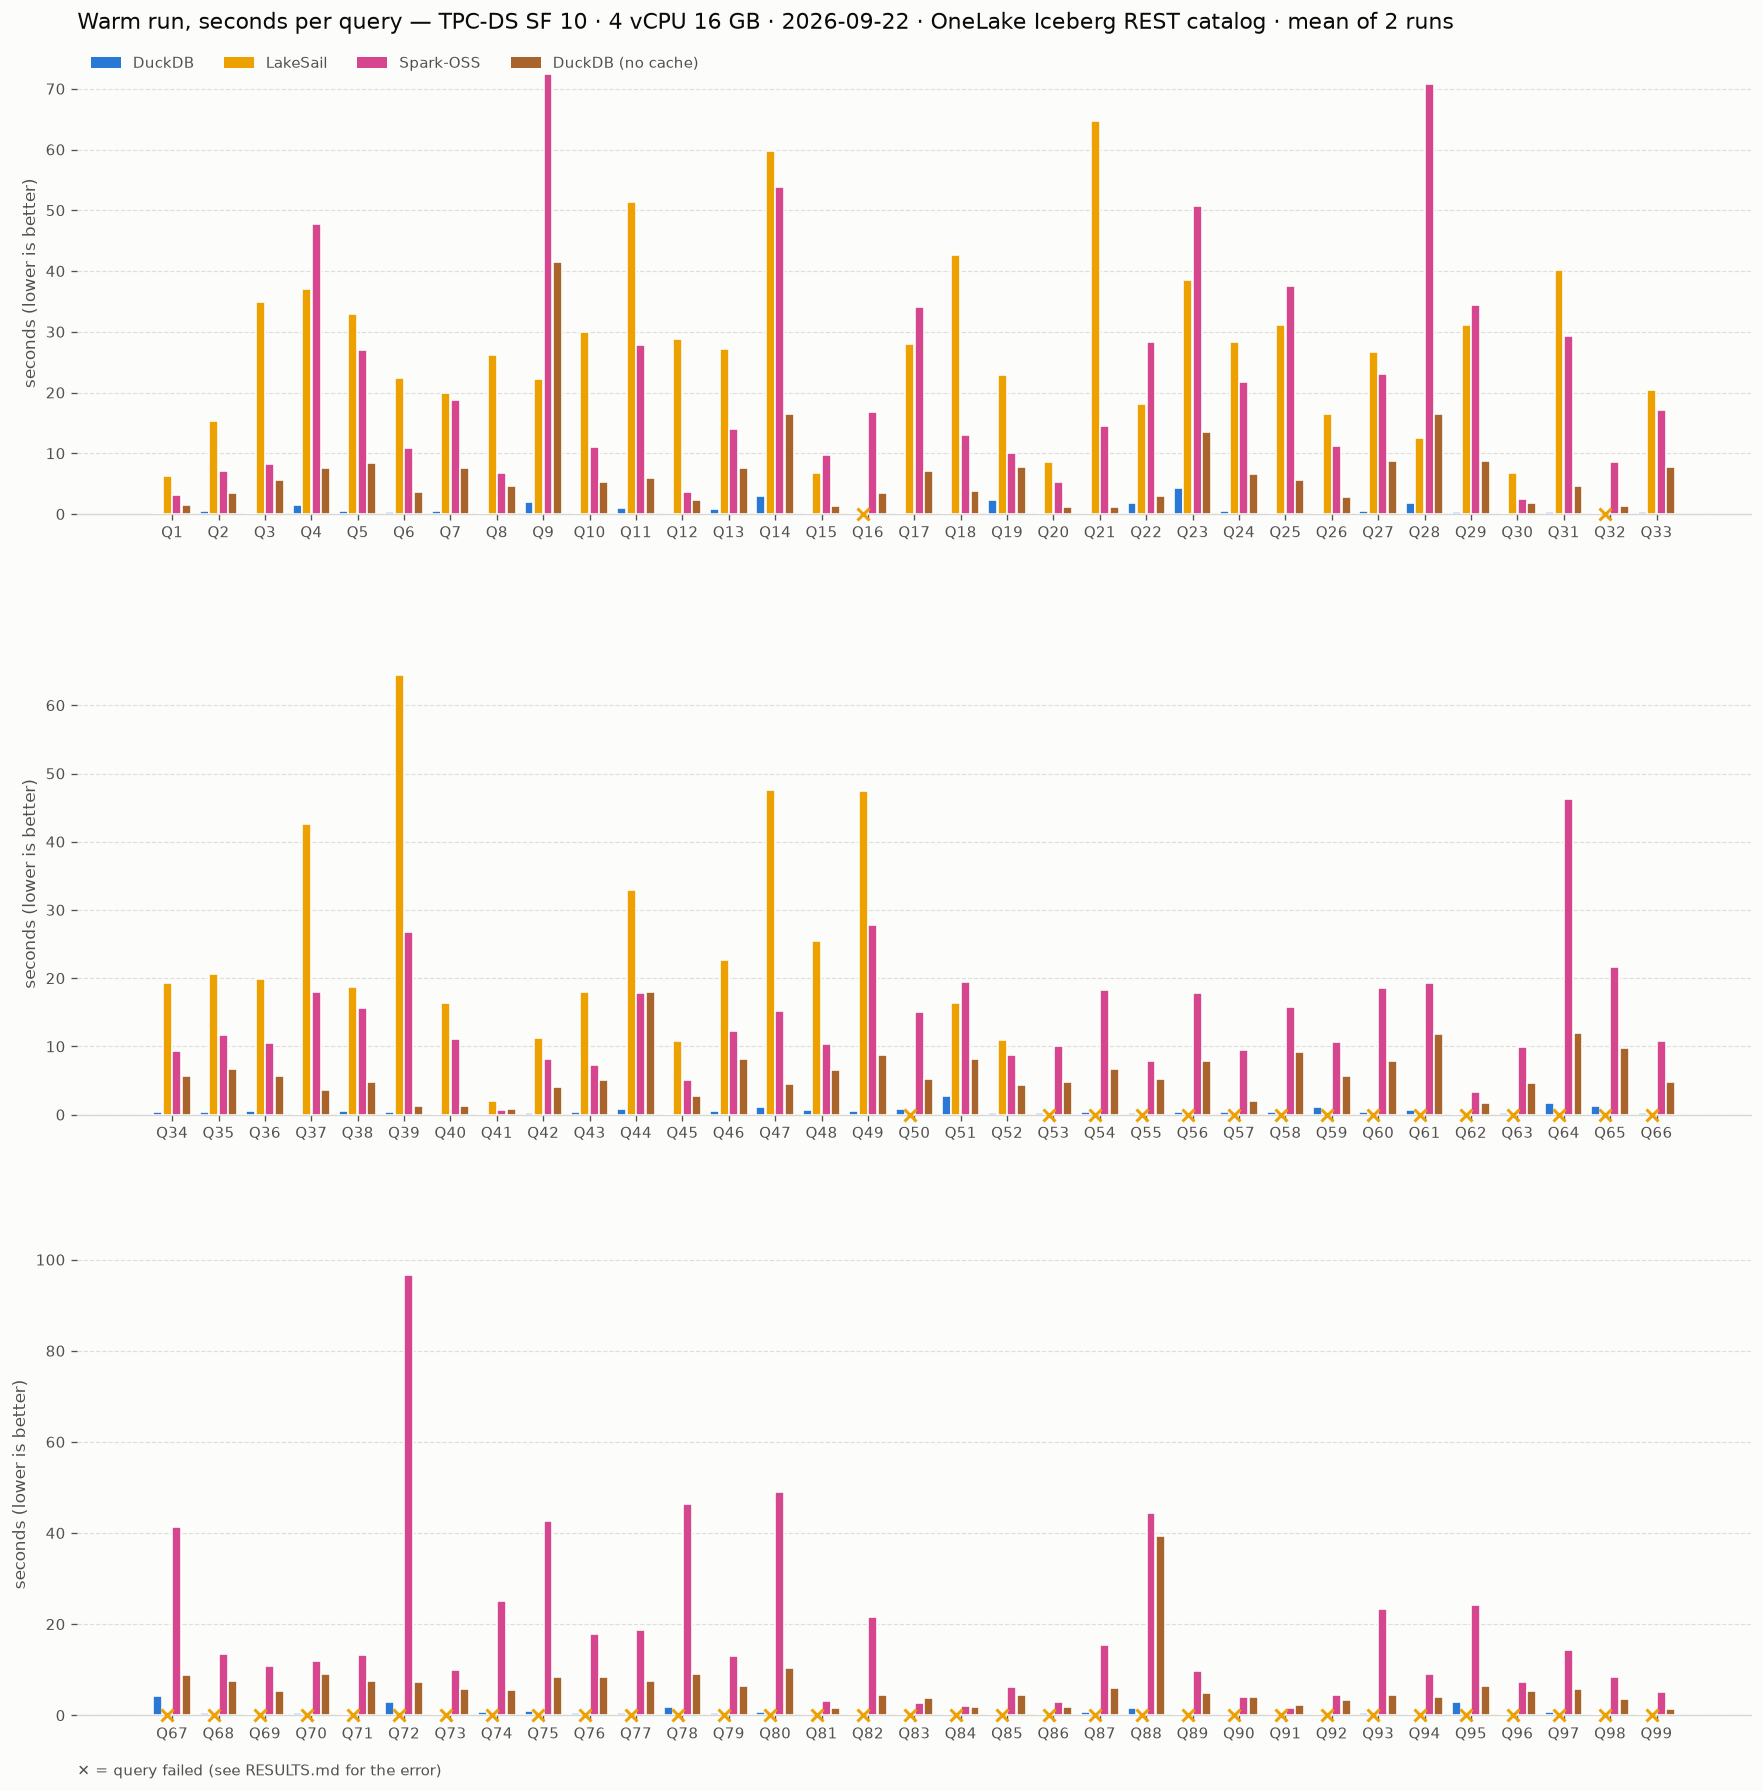
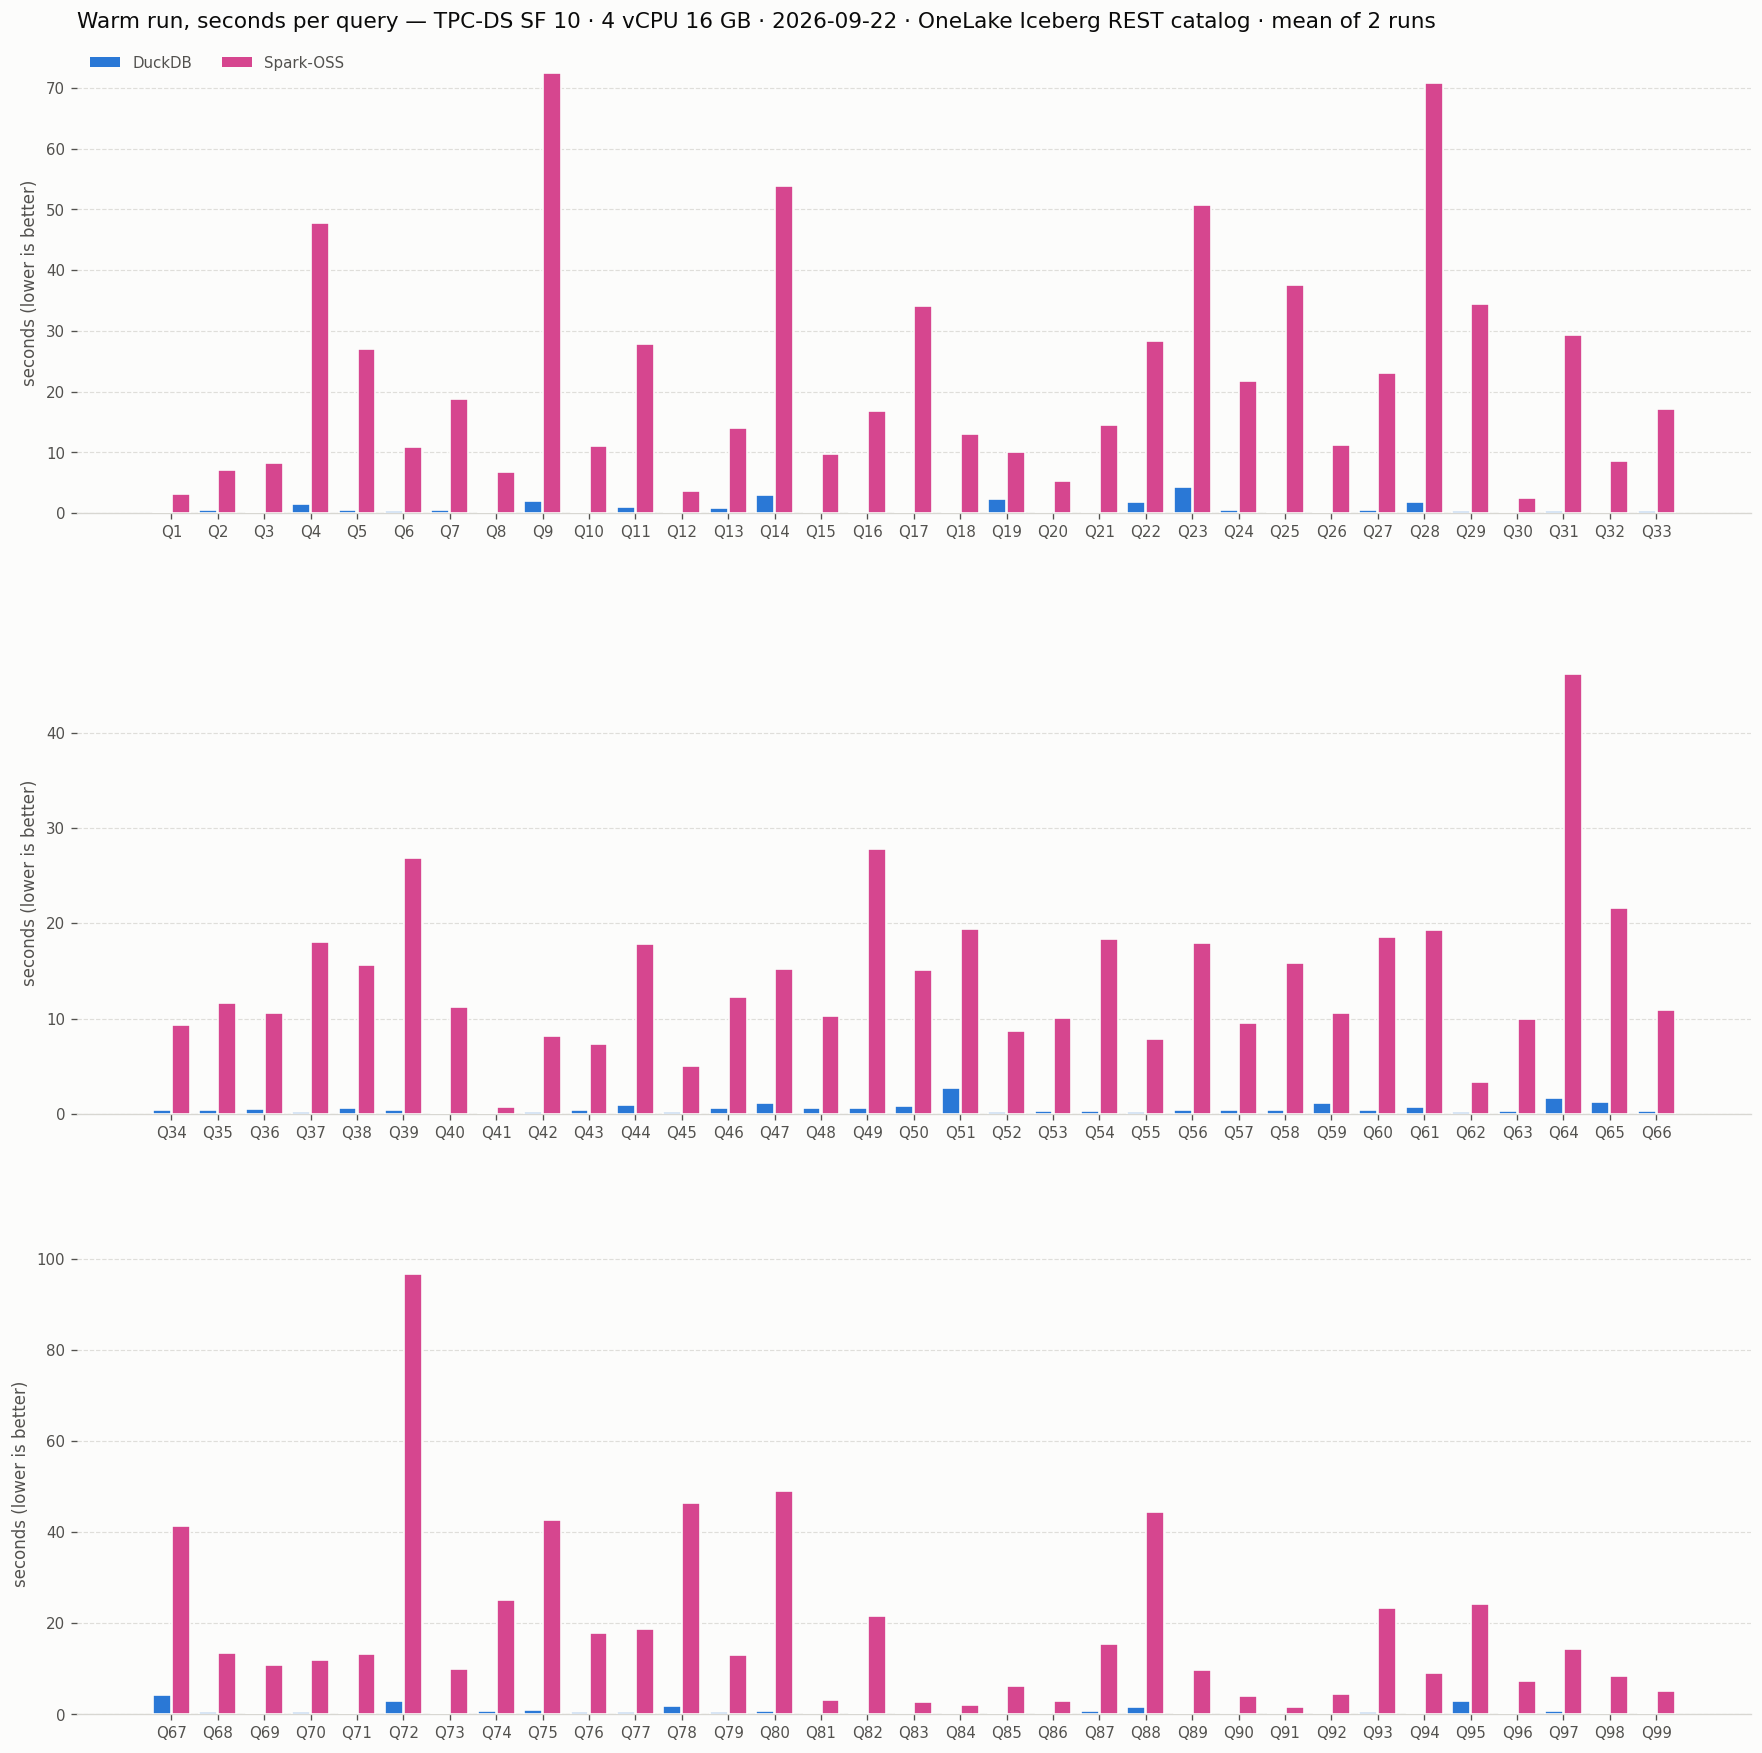
tpcds: drop the DuckDB no-cache control
It answered a TPC-H question -- is Polars slower only because it has no file
cache? -- and TPC-H keeps it. TPC-DS never needed it.

publish.py now draws the headline charts and RESULTS.md from the suite's current
ENGINES only (write_headline_docs), so a dropped engine leaves the headline at
once instead of lingering until it ages out of the recent-runs window. The
history JSON and CSV keep everything. docs/tpcds re-rendered from the stored
run 35789548458 through that same function; no run file was written.

diff --git a/.github/scripts/publish.py b/.github/scripts/publish.py
@@ -126,6 +126,7 @@ def write_results_md(run: Run, rows: list[dict], table, path: Path, suite) -> No
     failures = [
         (engine, row)
         for engine, result in run.engines.items()
+        if engine in suite.ENGINES
         for row in result.rows
         if row.status == "error"
     ]
@@ -177,6 +178,36 @@ def write_results_md(run: Run, rows: list[dict], table, path: Path, suite) -> No
     path.write_text("\n".join(lines) + "\n", encoding="utf-8")
 
 
+def write_headline_docs(run: Run, rows: list[dict], table, suite) -> None:
+    """Charts and RESULTS.md, drawn from the suite's CURRENT engine roll only.
+
+    The history keeps every engine that ever ran; the headline does not. An engine dropped from
+    a suite (TPC-DS's DuckDB no-cache control, 2026-09-23) would otherwise stay on the charts
+    until it aged out of the recent-runs window.
+    """
+    import pyarrow as pa
+    import pyarrow.compute as pc
+
+    docs = Path(suite.DOCS_DIR)
+    shown = table.filter(pc.is_in(table["engine"], value_set=pa.array(list(suite.ENGINES))))
+    subtitle = (
+        f"{suite.TITLE} SF {run.sf} · {run.cpu} vCPU {run.mem_gb:.0f} GB · "
+        f"{run.run_started_at[:10]} · OneLake Iceberg REST catalog"
+    )
+    per_row = math.ceil(suite.N_QUERIES / math.ceil(suite.N_QUERIES / PER_ROW_MAX))
+    for path in charts.render_all(
+        shown,
+        run.sf,
+        docs / "charts",
+        subtitle,
+        test=suite.TEST,
+        n_queries=suite.N_QUERIES,
+        per_row=per_row,
+    ):
+        print(f"wrote {path}")
+    write_results_md(run, rows, shown, docs / "RESULTS.md", suite)
+
+
 def write_step_summary(run: Run, rows: list[dict], suite) -> None:
     target = os.environ.get("GITHUB_STEP_SUMMARY")
     if not target:
@@ -222,22 +253,7 @@ def main() -> int:
     # The charts and RESULTS.md are the HEADLINE_SF view; a run at another scale is recorded
     # (the JSON above, the CSV, the step summary) and rewrites neither. etl_publish.py says why.
     if sf == suite.HEADLINE_SF:
-        subtitle = (
-            f"{suite.TITLE} SF {run.sf} · {run.cpu} vCPU {run.mem_gb:.0f} GB · "
-            f"{run.run_started_at[:10]} · OneLake Iceberg REST catalog"
-        )
-        per_row = math.ceil(suite.N_QUERIES / math.ceil(suite.N_QUERIES / PER_ROW_MAX))
-        for path in charts.render_all(
-            table,
-            sf,
-            docs / "charts",
-            subtitle,
-            test=suite.TEST,
-            n_queries=suite.N_QUERIES,
-            per_row=per_row,
-        ):
-            print(f"wrote {path}")
-        write_results_md(run, rows, table, docs / "RESULTS.md", suite)
+        write_headline_docs(run, rows, table, suite)
     else:
         print(
             f"::notice::SF={sf} is not the headline scale ({suite.HEADLINE_SF}): the run and the "

diff --git a/bench/tpcds/config.py b/bench/tpcds/config.py
@@ -18,7 +18,7 @@ from dataclasses import dataclass
 
 from bench.config import SQL_DIR, Config
 
-# THE ENGINES THAT FINISH. TPC-H runs all seven; TPC-DS runs these three, and the other four were
+# THE ENGINES THAT FINISH. TPC-H runs all seven; TPC-DS runs these two. Four of the rest were
 # dropped on measurement, not taste -- run 35732997698 (SF=10) and 35732283791 (SF=1) are the
 # evidence, and every number below is from the SF=10 run over identical OneLake tables.
 #
@@ -36,15 +36,16 @@ from bench.config import SQL_DIR, Config
 #   daft_iceberg      never ran here: TPC-H already excludes it from the query benchmark
 #                     (Eventual-Inc/Daft#7532).
 #
-# What is left is DuckDB, the same DuckDB with its file cache off, and Spark. Spark is slow --
+# DuckDB WITH ITS FILE CACHE OFF is not here either. It was a TPC-H question -- is Polars slower
+# only because it has no cache? -- and TPC-H still runs it; TPC-DS never needed the control.
+#
+# What is left is DuckDB and Spark. Spark is slow --
 # ~42 min cold, and bench/tpch/engines/pyspark_iceberg.py's `refresh` exists because of it -- but
 # it is the only non-DuckDB engine that answers all 99, so dropping it would leave one engine
 # measured against itself.
 ENGINES = (
     "duckdb_iceberg",
     "pyspark_iceberg",
-    # LAST for the reason bench/tpch/config.py gives at the same line: position is legend order.
-    "duckdb_nocache_iceberg",
 )
 
 # The 24 tables of the spec (dsdgen also emits `dbgen_version`, which is not one), LARGEST FIRST

diff --git a/tests/test_config.py b/tests/test_config.py
@@ -112,7 +112,6 @@ def test_tpcds_runs_a_subset_of_the_tpch_engines():
     and no colour.
     """
     assert set(TpcdsConfig.ENGINES) < set(TpchConfig.ENGINES)
-    assert TpcdsConfig.ENGINES[-1] == "duckdb_nocache_iceberg"  # legend order, as in TPC-H
 
 
 def test_workflow_defaults_dispatch_only_engines_their_suite_lists():

diff --git a/docs/tpcds/RESULTS.md b/docs/tpcds/RESULTS.md
@@ -9,7 +9,6 @@ Last run: `2026-09-22T21:57:16Z` · commit `0b65692` · [Actions run](https://gi
 | Engine | Version | Cold total | Warm total | Attach | Failed queries |
 |---|---|---:|---:|---:|---|
 | DuckDB | `2.0.0.dev2609221243` | 105.3s | 67.7s | 2.6s | — |
-| DuckDB (no cache) | `2.0.0.dev2609221243` | 969.5s | 958.7s | 28.2s | — |
 | Spark-OSS | `4.1.3 + iceberg Apache Iceberg 1.11.0 (commit 6976e020b894f6a6777704df2b8c4458cb291ae9)` | 2,170.3s | 1,843.0s | 20.3s | — |
 
 Cold = first pass after attaching the catalog. Warm = the identical 99 statements run again immediately. Attach is timed separately and excluded from both totals.
@@ -18,110 +17,110 @@ Cold = first pass after attaching the catalog. Warm = the identical 99 statement
 
 Seconds, cold pass. `—` means the query failed; see Failures above.
 
-| Query | DuckDB | DuckDB (no cache) | Spark-OSS |
-|---|---|---|---|
-| Q1 | 2.11 | 8.92 | 14.16 |
-| Q2 | 3.04 | 5.28 | 11.88 |
-| Q3 | 4.31 | 6.87 | 9.50 |
-| Q4 | 2.39 | 11.36 | 51.84 |
-| Q5 | 1.23 | 12.52 | 50.93 |
-| Q6 | 0.48 | 5.98 | 12.05 |
-| Q7 | 0.94 | 10.96 | 20.25 |
-| Q8 | 0.25 | 5.42 | 7.76 |
-| Q9 | 2.01 | 75.15 | 77.21 |
-| Q10 | 0.29 | 11.44 | 11.84 |
-| Q11 | 0.97 | 8.40 | 29.76 |
-| Q12 | 0.14 | 2.58 | 4.18 |
-| Q13 | 0.84 | 13.06 | 16.32 |
-| Q14 | 3.23 | 26.19 | 57.86 |
-| Q15 | 0.10 | 1.83 | 9.49 |
-| Q16 | 0.80 | 7.30 | 18.41 |
-| Q17 | 1.05 | 11.79 | 34.40 |
-| Q18 | 0.53 | 5.62 | 14.41 |
-| Q19 | 2.02 | 10.74 | 10.87 |
-| Q20 | 0.07 | 1.50 | 5.61 |
-| Q21 | 0.47 | 2.20 | 15.18 |
-| Q22 | 2.32 | 3.19 | 28.07 |
-| Q23 | 4.41 | 18.44 | 53.52 |
-| Q24 | 0.59 | 8.28 | 22.65 |
-| Q25 | 0.24 | 9.38 | 36.05 |
-| Q26 | 0.24 | 3.69 | 11.15 |
-| Q27 | 0.46 | 12.28 | 22.45 |
-| Q28 | 1.88 | 22.56 | 68.93 |
-| Q29 | 0.36 | 12.37 | 33.68 |
-| Q30 | 0.24 | 2.43 | 2.68 |
-| Q31 | 0.41 | 6.43 | 31.13 |
-| Q32 | 0.05 | 2.38 | 9.52 |
-| Q33 | 0.41 | 10.95 | 18.82 |
-| Q34 | 0.33 | 8.83 | 9.58 |
-| Q35 | 0.50 | 7.65 | 12.18 |
-| Q36 | 0.46 | 8.48 | 11.67 |
-| Q37 | 0.22 | 5.19 | 18.42 |
-| Q38 | 0.61 | 6.24 | 15.73 |
-| Q39 | 0.61 | 1.90 | 26.53 |
-| Q40 | 0.46 | 2.03 | 10.62 |
-| Q41 | 0.04 | 1.18 | 0.90 |
-| Q42 | 0.22 | 5.67 | 7.77 |
-| Q43 | 0.36 | 6.66 | 7.36 |
-| Q44 | 0.85 | 25.68 | 17.77 |
-| Q45 | 0.15 | 3.88 | 4.95 |
-| Q46 | 0.53 | 11.47 | 11.89 |
-| Q47 | 1.10 | 8.39 | 14.37 |
-| Q48 | 0.63 | 9.79 | 10.91 |
-| Q49 | 0.96 | 11.22 | 27.89 |
-| Q50 | 0.85 | 9.37 | 15.80 |
-| Q51 | 2.74 | 8.99 | 19.32 |
-| Q52 | 0.24 | 5.29 | 8.96 |
-| Q53 | 0.32 | 6.21 | 9.73 |
-| Q54 | 0.32 | 10.29 | 17.45 |
-| Q55 | 0.23 | 4.90 | 7.57 |
-| Q56 | 0.38 | 10.99 | 17.74 |
-| Q57 | 0.39 | 2.28 | 9.33 |
-| Q58 | 0.36 | 11.97 | 15.79 |
-| Q59 | 1.15 | 5.06 | 10.72 |
-| Q60 | 0.42 | 11.06 | 18.21 |
-| Q61 | 0.72 | 16.09 | 18.82 |
-| Q62 | 21.57 | 5.21 | 3.36 |
-| Q63 | 0.31 | 7.67 | 9.88 |
-| Q64 | 1.83 | 17.94 | 45.25 |
-| Q65 | 1.25 | 15.17 | 22.52 |
-| Q66 | 0.63 | 7.60 | 11.95 |
-| Q67 | 4.30 | 13.05 | 42.52 |
-| Q68 | 0.57 | 12.12 | 14.22 |
-| Q69 | 0.29 | 8.35 | 11.36 |
-| Q70 | 0.57 | 12.24 | 13.15 |
-| Q71 | 0.38 | 7.85 | 14.31 |
-| Q72 | 3.38 | 10.21 | 341.47 |
-| Q73 | 0.28 | 8.70 | 9.66 |
-| Q74 | 0.73 | 9.19 | 24.08 |
-| Q75 | 0.96 | 12.93 | 42.76 |
-| Q76 | 0.56 | 14.45 | 18.29 |
-| Q77 | 0.54 | 14.78 | 20.64 |
-| Q78 | 1.83 | 13.58 | 45.41 |
-| Q79 | 0.56 | 10.13 | 12.99 |
-| Q80 | 0.66 | 15.19 | 49.20 |
-| Q81 | 0.17 | 2.12 | 3.33 |
-| Q82 | 0.19 | 7.98 | 22.39 |
-| Q83 | 0.10 | 6.00 | 2.63 |
-| Q84 | 0.10 | 2.83 | 1.70 |
-| Q85 | 0.32 | 7.71 | 6.80 |
-| Q86 | 0.12 | 2.07 | 3.04 |
-| Q87 | 0.68 | 10.55 | 14.89 |
-| Q88 | 1.67 | 58.58 | 44.97 |
-| Q89 | 0.34 | 10.93 | 9.55 |
-| Q90 | 0.12 | 6.43 | 3.74 |
-| Q91 | 0.14 | 3.55 | 1.81 |
-| Q92 | 0.11 | 5.06 | 5.05 |
-| Q93 | 0.44 | 7.42 | 23.54 |
-| Q94 | 0.11 | 6.15 | 9.12 |
-| Q95 | 2.99 | 8.13 | 26.03 |
-| Q96 | 0.22 | 7.00 | 6.94 |
-| Q97 | 0.71 | 8.49 | 16.01 |
-| Q98 | 0.35 | 5.17 | 10.09 |
-| Q99 | 0.18 | 2.69 | 5.11 |
+| Query | DuckDB | Spark-OSS |
+|---|---|---|
+| Q1 | 2.11 | 14.16 |
+| Q2 | 3.04 | 11.88 |
+| Q3 | 4.31 | 9.50 |
+| Q4 | 2.39 | 51.84 |
+| Q5 | 1.23 | 50.93 |
+| Q6 | 0.48 | 12.05 |
+| Q7 | 0.94 | 20.25 |
+| Q8 | 0.25 | 7.76 |
+| Q9 | 2.01 | 77.21 |
+| Q10 | 0.29 | 11.84 |
+| Q11 | 0.97 | 29.76 |
+| Q12 | 0.14 | 4.18 |
+| Q13 | 0.84 | 16.32 |
+| Q14 | 3.23 | 57.86 |
+| Q15 | 0.10 | 9.49 |
+| Q16 | 0.80 | 18.41 |
+| Q17 | 1.05 | 34.40 |
+| Q18 | 0.53 | 14.41 |
+| Q19 | 2.02 | 10.87 |
+| Q20 | 0.07 | 5.61 |
+| Q21 | 0.47 | 15.18 |
+| Q22 | 2.32 | 28.07 |
+| Q23 | 4.41 | 53.52 |
+| Q24 | 0.59 | 22.65 |
+| Q25 | 0.24 | 36.05 |
+| Q26 | 0.24 | 11.15 |
+| Q27 | 0.46 | 22.45 |
+| Q28 | 1.88 | 68.93 |
+| Q29 | 0.36 | 33.68 |
+| Q30 | 0.24 | 2.68 |
+| Q31 | 0.41 | 31.13 |
+| Q32 | 0.05 | 9.52 |
+| Q33 | 0.41 | 18.82 |
+| Q34 | 0.33 | 9.58 |
+| Q35 | 0.50 | 12.18 |
+| Q36 | 0.46 | 11.67 |
+| Q37 | 0.22 | 18.42 |
+| Q38 | 0.61 | 15.73 |
+| Q39 | 0.61 | 26.53 |
+| Q40 | 0.46 | 10.62 |
+| Q41 | 0.04 | 0.90 |
+| Q42 | 0.22 | 7.77 |
+| Q43 | 0.36 | 7.36 |
+| Q44 | 0.85 | 17.77 |
+| Q45 | 0.15 | 4.95 |
+| Q46 | 0.53 | 11.89 |
+| Q47 | 1.10 | 14.37 |
+| Q48 | 0.63 | 10.91 |
+| Q49 | 0.96 | 27.89 |
+| Q50 | 0.85 | 15.80 |
+| Q51 | 2.74 | 19.32 |
+| Q52 | 0.24 | 8.96 |
+| Q53 | 0.32 | 9.73 |
+| Q54 | 0.32 | 17.45 |
+| Q55 | 0.23 | 7.57 |
+| Q56 | 0.38 | 17.74 |
+| Q57 | 0.39 | 9.33 |
+| Q58 | 0.36 | 15.79 |
+| Q59 | 1.15 | 10.72 |
+| Q60 | 0.42 | 18.21 |
+| Q61 | 0.72 | 18.82 |
+| Q62 | 21.57 | 3.36 |
+| Q63 | 0.31 | 9.88 |
+| Q64 | 1.83 | 45.25 |
+| Q65 | 1.25 | 22.52 |
+| Q66 | 0.63 | 11.95 |
+| Q67 | 4.30 | 42.52 |
+| Q68 | 0.57 | 14.22 |
+| Q69 | 0.29 | 11.36 |
+| Q70 | 0.57 | 13.15 |
+| Q71 | 0.38 | 14.31 |
+| Q72 | 3.38 | 341.47 |
+| Q73 | 0.28 | 9.66 |
+| Q74 | 0.73 | 24.08 |
+| Q75 | 0.96 | 42.76 |
+| Q76 | 0.56 | 18.29 |
+| Q77 | 0.54 | 20.64 |
+| Q78 | 1.83 | 45.41 |
+| Q79 | 0.56 | 12.99 |
+| Q80 | 0.66 | 49.20 |
+| Q81 | 0.17 | 3.33 |
+| Q82 | 0.19 | 22.39 |
+| Q83 | 0.10 | 2.63 |
+| Q84 | 0.10 | 1.70 |
+| Q85 | 0.32 | 6.80 |
+| Q86 | 0.12 | 3.04 |
+| Q87 | 0.68 | 14.89 |
+| Q88 | 1.67 | 44.97 |
+| Q89 | 0.34 | 9.55 |
+| Q90 | 0.12 | 3.74 |
+| Q91 | 0.14 | 1.81 |
+| Q92 | 0.11 | 5.05 |
+| Q93 | 0.44 | 23.54 |
+| Q94 | 0.11 | 9.12 |
+| Q95 | 2.99 | 26.03 |
+| Q96 | 0.22 | 6.94 |
+| Q97 | 0.71 | 16.01 |
+| Q98 | 0.35 | 10.09 |
+| Q99 | 0.18 | 5.11 |
 
 ## History
 
-1,194 timed statements across 2 runs.
+597 timed statements across 2 runs.
 Raw data: one immutable JSON per run under [`results/tpcds/`](../../results/tpcds/), flattened to [`data/tpcds_results.csv`](../data/tpcds_results.csv).
 
